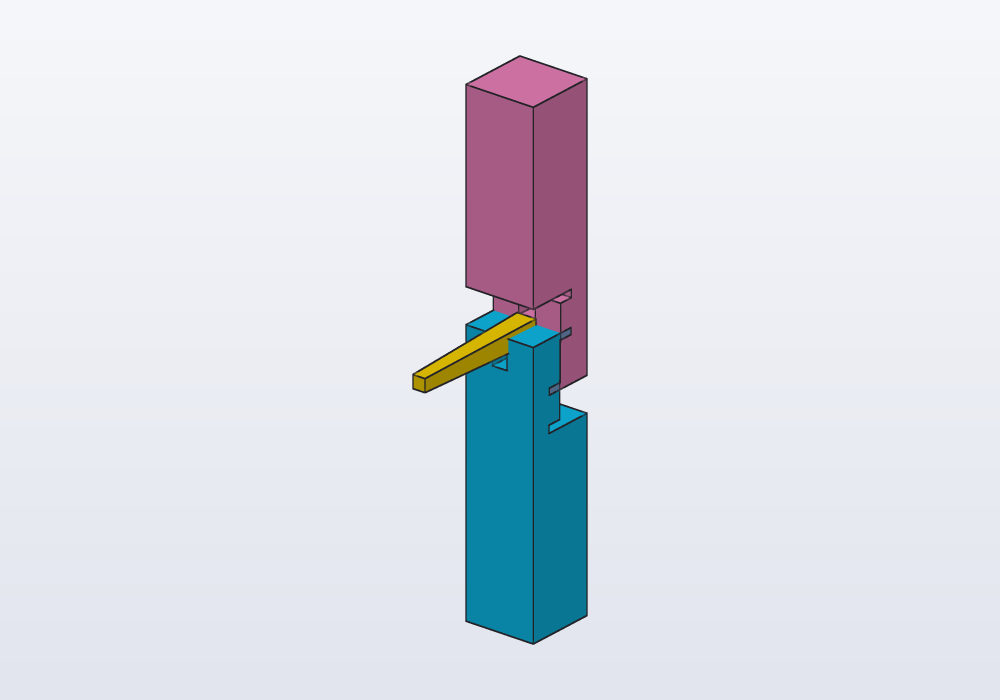
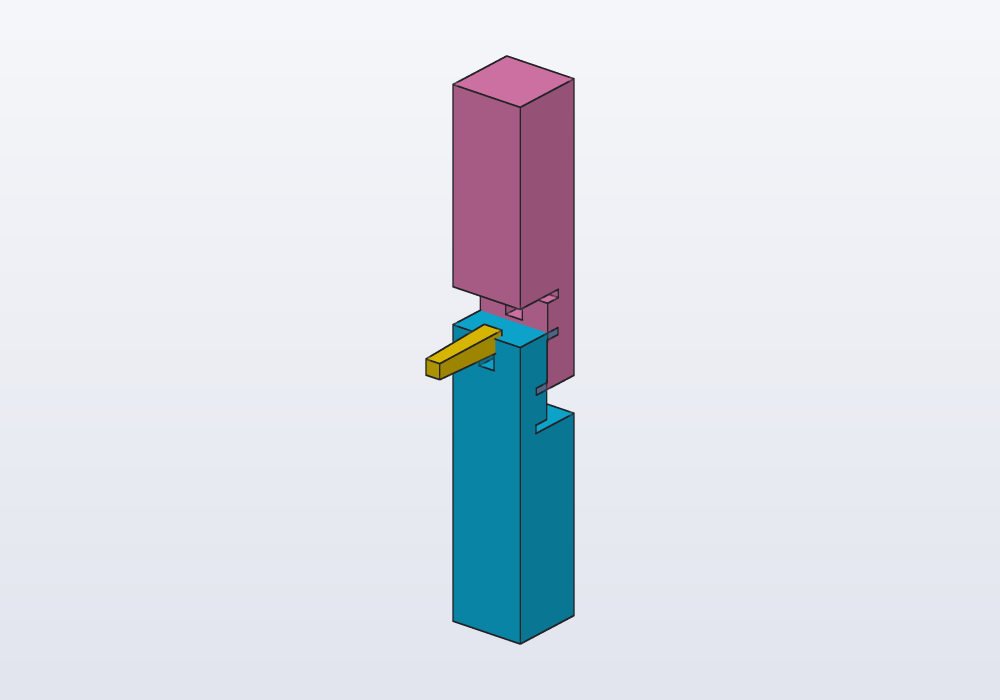
The scarf's wedge lies flush at its narrow end and stands out 3 mm at its head, sized by the piece's thickness

Changed region(s): [[0.403, 0.09, 0.589, 0.93], [0.496, 0.06, 0.527, 0.09]]

diff --git a/docs/guides/joints.md b/docs/guides/joints.md
@@ -114,7 +114,7 @@ Solid right() => pieces().b.move(x: 8.mm);
 
 ## The wedged scarf
 
-The kanawa tsugi of Japanese carpentry joins two beams end to end in a half lap with a hook at each end; a wedge driven through the middle pushes the hooks against each other, and the joint becomes as stiff as the beam. The wedge is a loose part, printed apart, tapering 1 in 20: it goes in by hand and is tapped home.
+The kanawa tsugi of Japanese carpentry joins two beams end to end in a half lap with a hook at each end; a wedge driven through the middle pushes the hooks against each other, and the joint becomes as stiff as the beam. The wedge is a loose part, printed apart, tapering 1 in 20: it goes in by hand and is tapped home, its narrow end flush with the post's side and its wide end standing out 3 mm, to tap it and to pull it out again.
 
 <!-- render: joints-kanawa --from 0.8,-1,0.6 -->
 ```d

diff --git a/docs/AGENTS.md b/docs/AGENTS.md
@@ -12,12 +12,12 @@ reference first and follow the rules below.
 
 ## Setup and updates
 
-This text was made by hcad 0.3.1 (docs stamp `0.3.1-09fca2c7`). Before the first
+This text was made by hcad 0.3.1 (docs stamp `0.3.1-34acf5e5`). Before the first
 model of a session, run `hcad docs --stamp` (`hcad` may be a full path, or the
 AppImage followed by the word `hcad`; with the MCP server, hcad_docs with
 format stamp):
 
-- **It prints `0.3.1-09fca2c7`:** this text is up to date.
+- **It prints `0.3.1-34acf5e5`:** this text is up to date.
 - **It prints something else:** hackerscad was updated and this text is
   older or newer than it. Installed as a skill, refresh it in place:
   `hcad docs --skill` into this SKILL.md, `hcad docs` into the llms-full.txt

diff --git a/docs/SKILL.md b/docs/SKILL.md
@@ -17,12 +17,12 @@ reference first and follow the rules below.
 
 ## Setup and updates
 
-This text was made by hcad 0.3.1 (docs stamp `0.3.1-09fca2c7`). Before the first
+This text was made by hcad 0.3.1 (docs stamp `0.3.1-34acf5e5`). Before the first
 model of a session, run `hcad docs --stamp` (`hcad` may be a full path, or the
 AppImage followed by the word `hcad`; with the MCP server, hcad_docs with
 format stamp):
 
-- **It prints `0.3.1-09fca2c7`:** this text is up to date.
+- **It prints `0.3.1-34acf5e5`:** this text is up to date.
 - **It prints something else:** hackerscad was updated and this text is
   older or newer than it. Installed as a skill, refresh it in place:
   `hcad docs --skill` into this SKILL.md, `hcad docs` into the llms-full.txt
